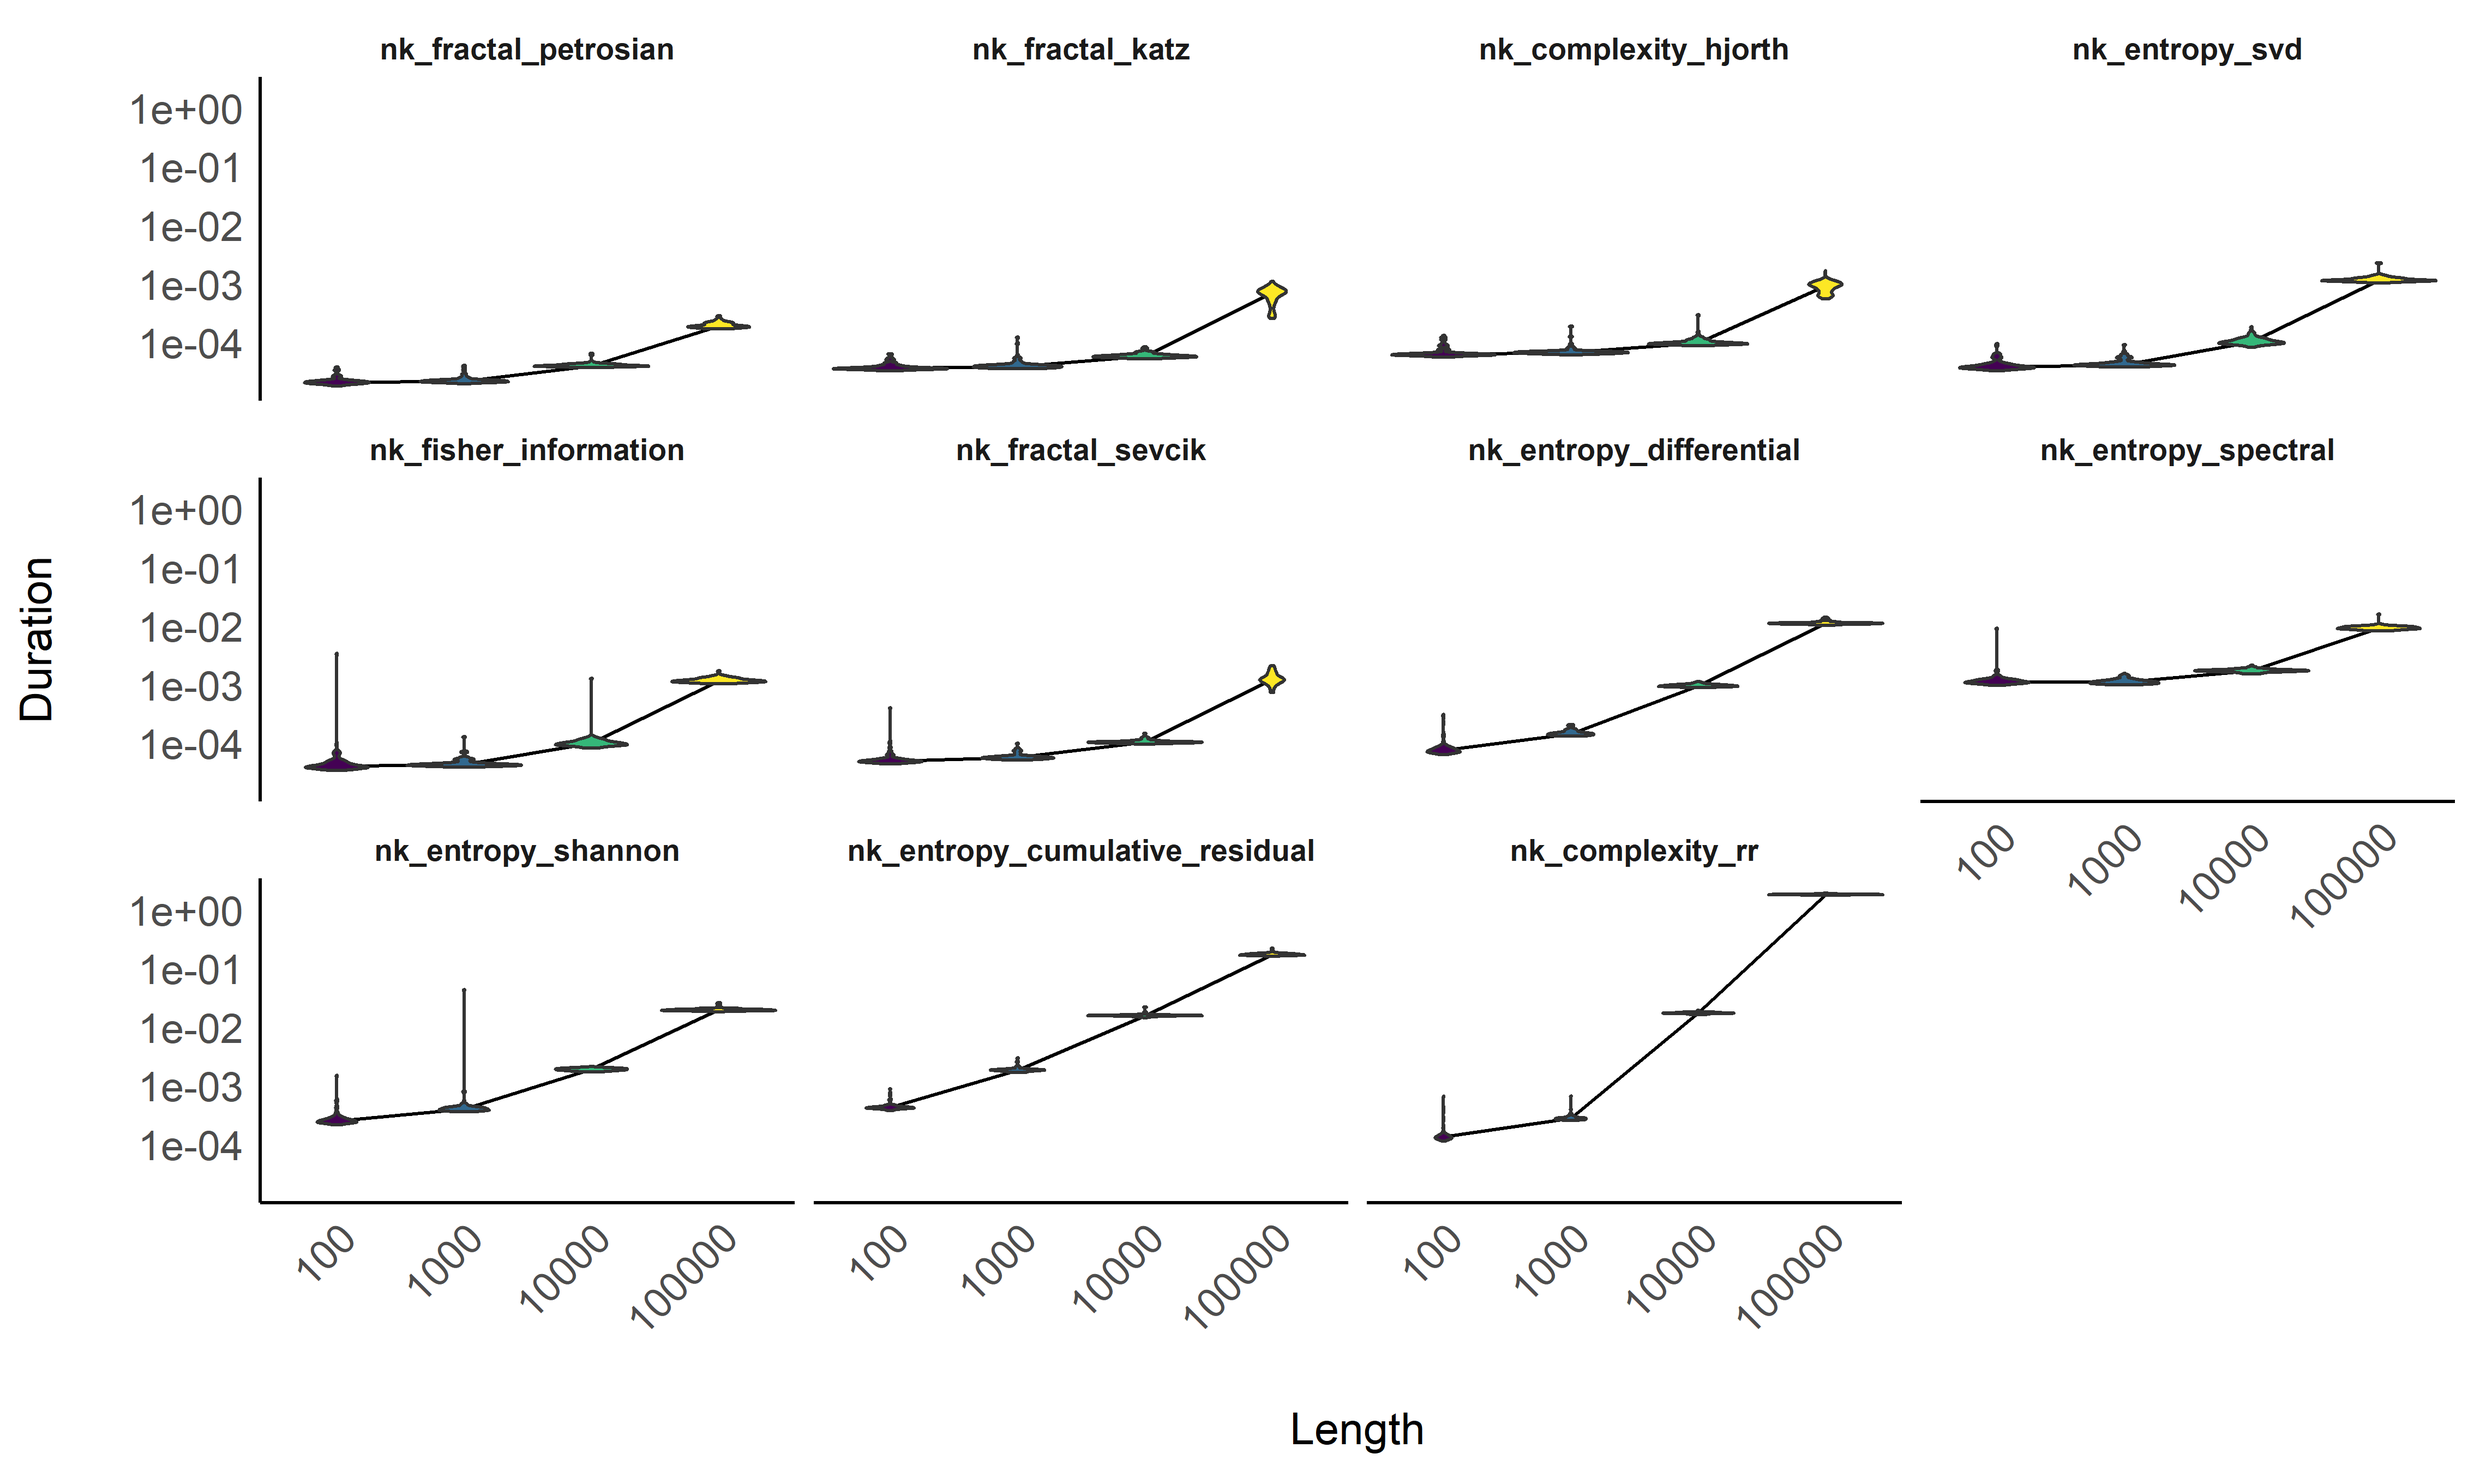
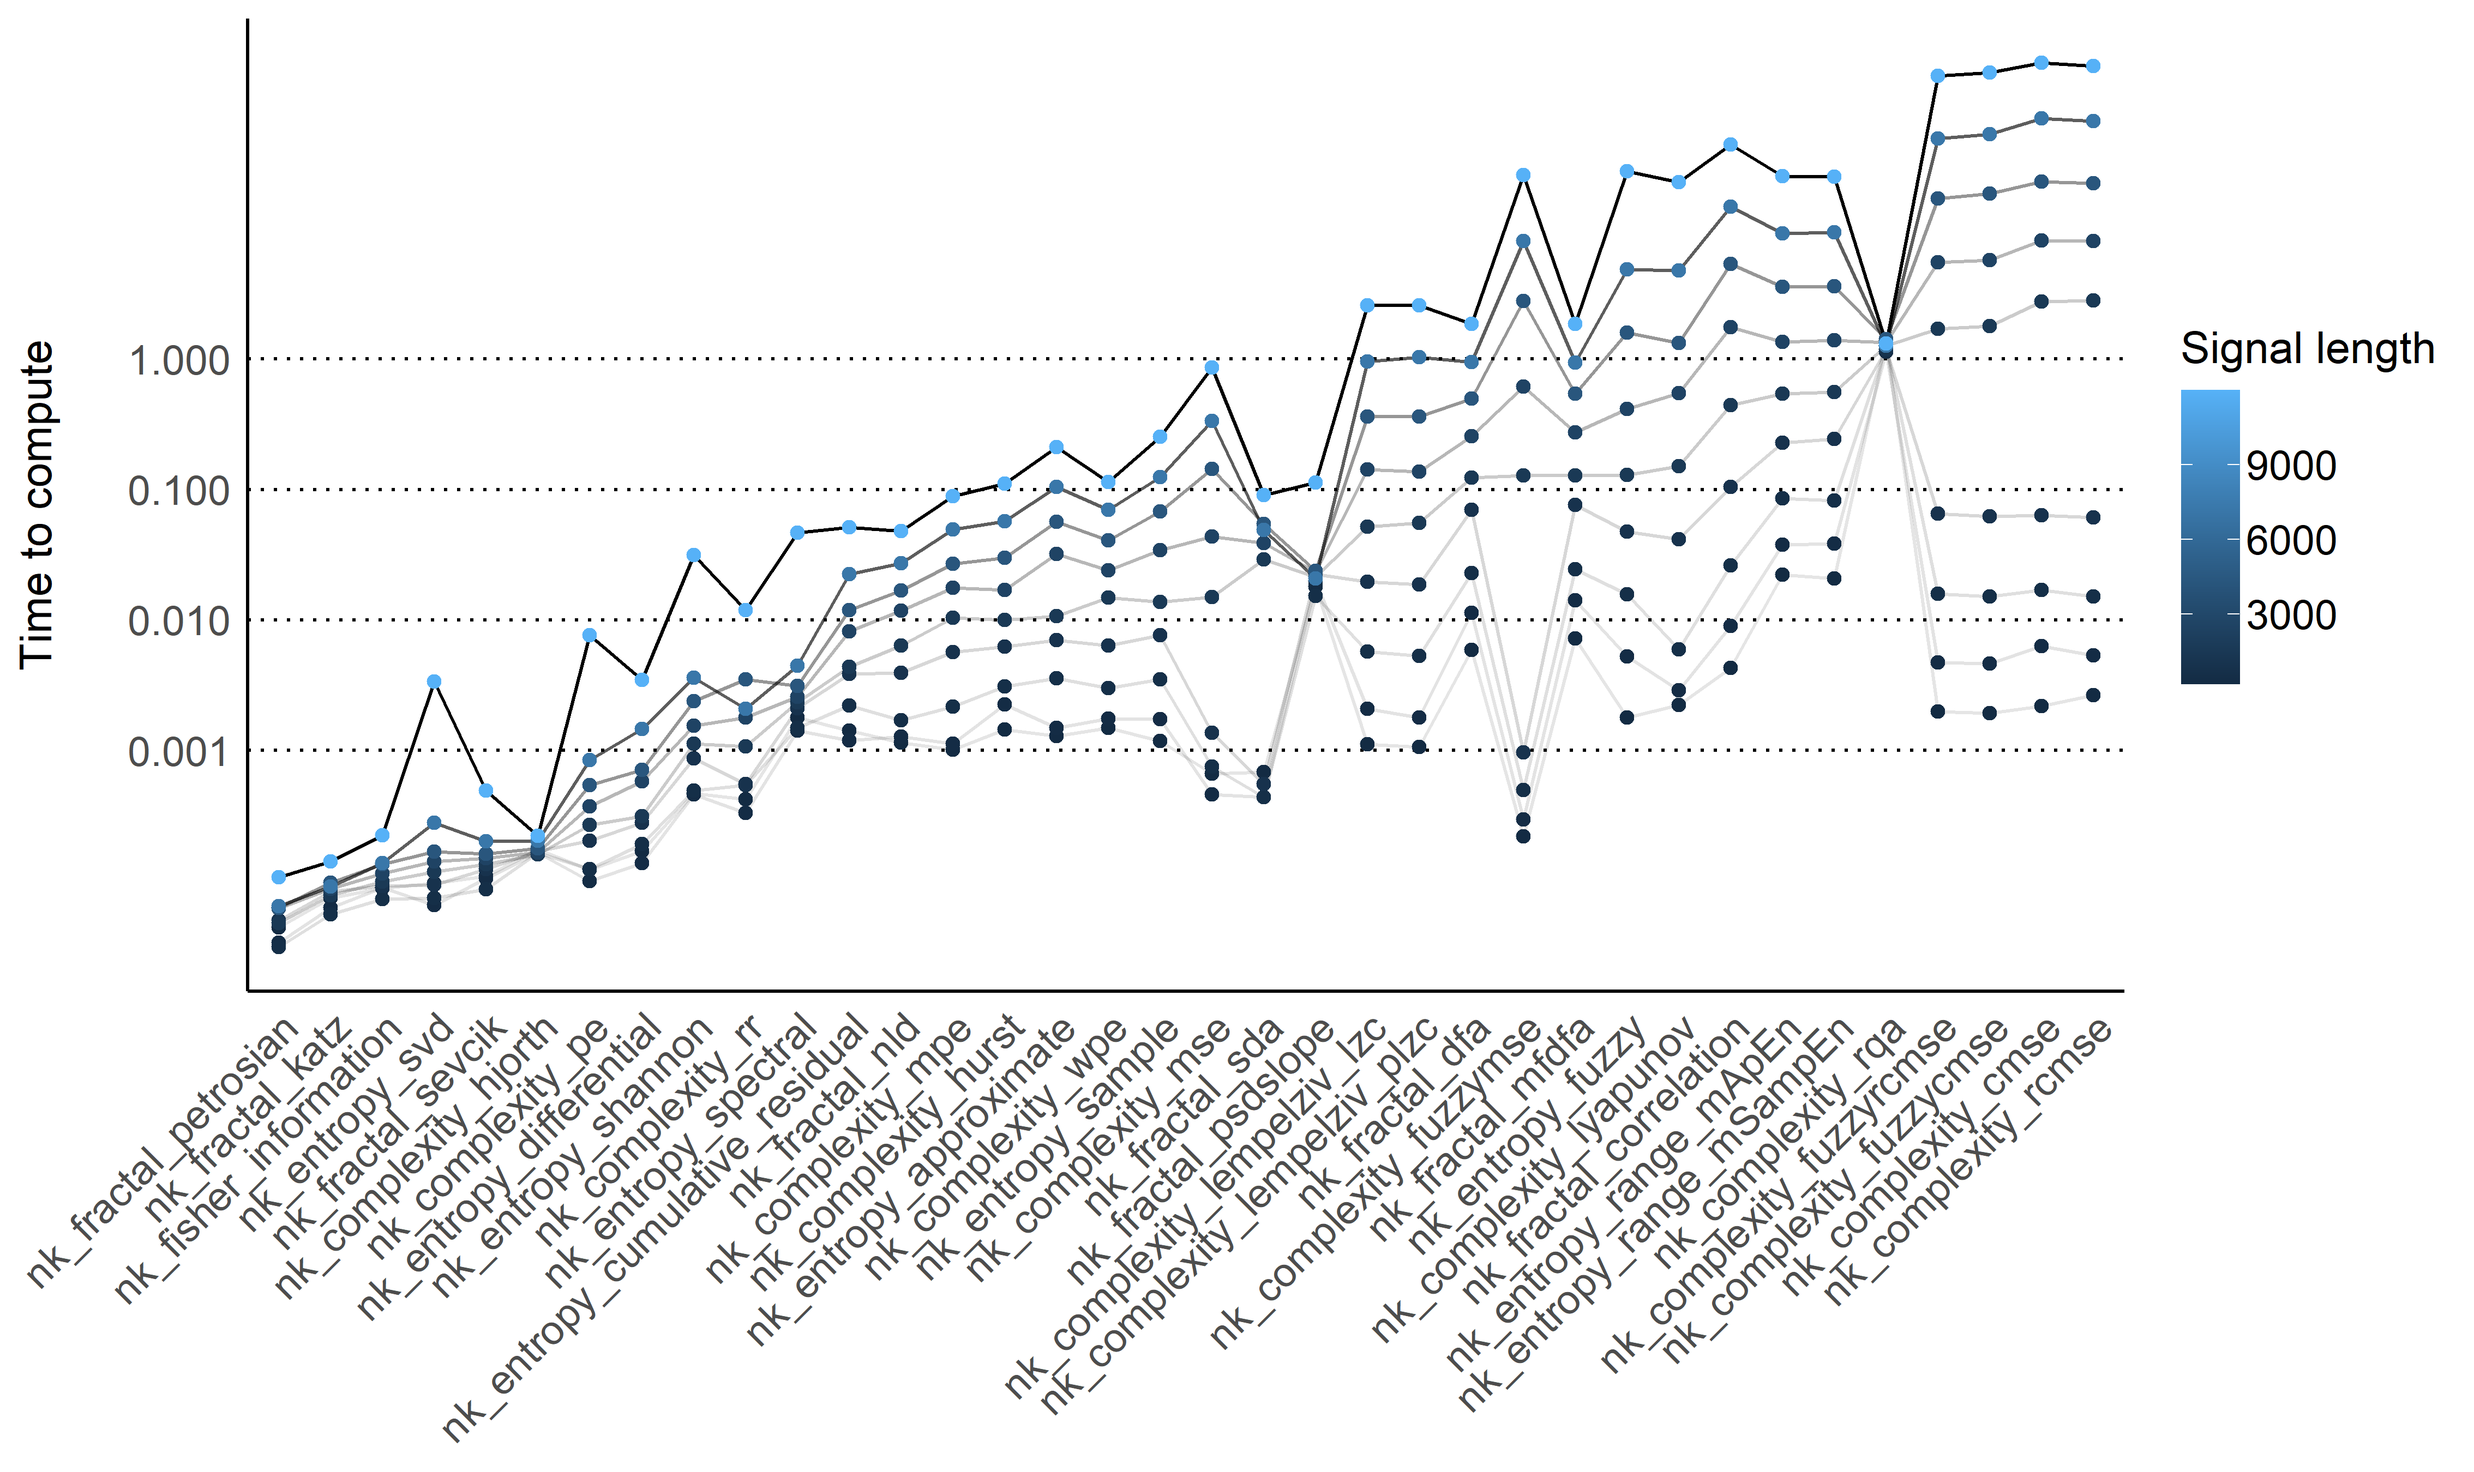
initialize complexity()

diff --git a/neurokit2/complexity/complexity.py b/neurokit2/complexity/complexity.py
@@ -1,0 +1,84 @@
+import numpy as np
+import pandas as pd
+
+from .complexity_hjorth import complexity_hjorth
+from .entropy_differential import entropy_differential
+from .entropy_permutation import entropy_permutation
+from .entropy_svd import entropy_svd
+from .fractal_katz import fractal_katz
+from .fractal_petrosian import fractal_petrosian
+from .fractal_sevcik import fractal_sevcik
+from .information_fisher import fisher_information
+
+
+def complexity(signal, which=["fast"], delay=1, dimension=2):
+    """Complexity Analysis
+
+    This convenience function can be used to run a large number of complexity metrics.
+
+    The categorization by "computation time" is based on our preliminary `benchmarking study <https://neurokit2.readthedocs.io/en/latest/studies/complexity_benchmark.html>`_.
+
+    Parameters
+    ----------
+    signal : Union[list, np.array, pd.Series]
+        The signal (i.e., a time series) in the form of a vector of values.
+    which : list
+        What metrics to compute, based on their computation time. Currently, only 'fast' is supported.
+    delay : int
+        See for example :func:`entropy_permutation`.
+    dimension : int
+        See for example :func:`entropy_permutation`.
+
+    Returns
+    --------
+    df : pd.DataFrame
+        A dataframe with one row containing the results for each metric as columns.
+    info : dict
+        A dictionary containing additional information.
+
+    See Also
+    --------
+    entropy_permutation, entropy_differential, entropy_svd, fractal_katz, fractal_petrosian, fractal_sevcik, fisher_information, complexity_hjorth
+
+    Examples
+    ----------
+    >>> import neurokit2 as nk
+    >>>
+    >>> signal = nk.signal_simulate(duration=2, frequency=5)
+    >>>
+    >>> df, info = nk.complexity(signal, which = "fast")
+    >>> df
+
+    """
+    # Sanity checks
+    if isinstance(signal, (np.ndarray, pd.DataFrame)) and signal.ndim > 1:
+        raise ValueError(
+            "Multidimensional inputs (e.g., matrices or multichannel data) are not supported yet."
+        )
+
+    # Sanitize which
+    if isinstance(which, str):
+        which = [which]
+
+    # Initialize
+    df = {}
+    info = {}
+
+    # Fast ======================================================================================
+    if "fast" in which:
+
+        # Fractal Dimension
+        df["PFD"], info["PFD"] = fractal_petrosian(signal)
+        df["KFD"], info["KFD"] = fractal_katz(signal)
+        df["SFD"], info["SFD"] = fractal_sevcik(signal)
+
+        # Entropy
+        df["SVDEn"], info["SVDEn"] = entropy_svd(signal, delay=delay, dimension=dimension)
+        df["PEn"], info["PEn"] = entropy_permutation(signal, dimension=dimension, delay=delay)
+        df["DiffEn"], info["DiffEn"] = entropy_differential(signal)
+
+        # Other
+        df["FI"], info["FI"] = fisher_information(signal, delay=delay, dimension=dimension)
+        df["Hjorth"], info["Hjorth"] = complexity_hjorth(signal)
+
+    return pd.DataFrame.from_dict(df, orient="index").T, info

diff --git a/neurokit2/complexity/entropy_svd.py b/neurokit2/complexity/entropy_svd.py
@@ -7,8 +7,8 @@ from .complexity_embedding import complexity_embedding
 def entropy_svd(signal, delay=1, dimension=2):
     """Singular Value Decomposition (SVD) Entropy
 
-    SVD entropy can be intuitively seen as an indicator of how many eigenvectors are needed for
-    an adequate explanation of the dataset. In other words, it measures feature-richness: the
+    SVD entropy (SVDEn) can be intuitively seen as an indicator of how many eigenvectors are needed
+    for an adequate explanation of the dataset. In other words, it measures feature-richness: the
     higher the SVD entropy, the more orthogonal vectors are required to adequately explain the
     dataset.
 

diff --git a/neurokit2/complexity/__init__.py b/neurokit2/complexity/__init__.py
@@ -1,6 +1,7 @@
 """Submodule for NeuroKit."""
 import functools
 
+from .complexity import complexity
 from .complexity_embedding import complexity_embedding
 from .complexity_hjorth import complexity_hjorth
 from .complexity_hurst import complexity_hurst
@@ -76,6 +77,7 @@ complexity_cd = fractal_correlation
 complexity_plot = functools.partial(complexity_optimize, show=True)
 
 __all__ = [
+    "complexity",
     "complexity_embedding",
     "complexity_delay",
     "complexity_dimension",

diff --git a/studies/complexity_benchmark/README.md b/studies/complexity_benchmark/README.md
@@ -18,94 +18,61 @@ dimension, entropy, etc.).
 ## Make data
 
 ``` python
-import neurokit2 as nk
-import pandas as pd
-import numpy as np
-from timeit import default_timer as timer
-
-
-# Utility function
-def time_function(i, x, fun=nk.fractal_petrosian, index="FD_Petrosian", method="nk_fractal_petrosian"):
-  t0 = timer()
-  rez, _ = fun(x)
-  t1 = timer() - t0
-  dat = {
-    "Duration" : [t1],
-    "Result" : [rez],
-    "Length" : [len(x)],
-    "Index" : [index],
-    "Method" : [method],
-    "Iteration" : [i],
-  }
-  return pd.DataFrame.from_dict(dat)
-
-# Iterations
-data = []
-for n in np.power(10, range(2, 6)):
-  print(n)
-  x = nk.signal_simulate(duration=1, sampling_rate=n, frequency=[5, 10], noise=0.5)
-  for i in range(100):
-    data.append(time_function(i, x, nk.complexity_rr, index="RR", method="nk_complexity_rr"))
-    data.append(time_function(i, x, nk.complexity_hjorth, index="Hjorth", method="nk_complexity_hjorth"))
-    data.append(time_function(i, x, nk.fisher_information, index="Fisher", method="nk_fisher_information"))
-    data.append(time_function(i, x, nk.entropy_shannon, index="ShanEn", method="nk_entropy_shannon"))
-    data.append(time_function(i, x, nk.entropy_cumulative_residual, index="CREn", method="nk_entropy_cumulative_residual"))
-    data.append(time_function(i, x, nk.entropy_differential, index="DiffEn", method="nk_entropy_differential"))
-    data.append(time_function(i, x, nk.entropy_svd, index="SVDen", method="nk_entropy_svd"))
-    data.append(time_function(i, x, nk.entropy_spectral, index="SpEn", method="nk_entropy_spectral"))
-    data.append(time_function(i, x, nk.fractal_katz, index="Katz", method="nk_fractal_katz"))
-    data.append(time_function(i, x, nk.fractal_sevcik, index="Sevcik", method="nk_fractal_sevcik"))
-    data.append(time_function(i, x, nk.fractal_petrosian, index="FD_Petrosian", method="nk_fractal_petrosian"))
-
-pd.concat(data).to_csv("data.csv", index=False)
+# See make_data.py
 ```
 
 ## Benchmark
+
+### Average Duration
 
 ``` r
 library(tidyverse)
 library(easystats)
 
-df <- read.csv("data.csv") |>
-  mutate(Length = as.factor(Length))
+df <- read.csv("data.csv") 
 
-order <- arrange(summarize(group_by(df, Method), Duration = mean(Duration)), Duration)
-order 
-## # A tibble: 11 x 2
-##    Method                          Duration
-##    <chr>                              <dbl>
-##  1 nk_fractal_petrosian           0.0000722
-##  2 nk_fractal_katz                0.000201 
-##  3 nk_complexity_hjorth           0.000288 
-##  4 nk_entropy_svd                 0.000352 
-##  5 nk_fisher_information          0.000363 
-##  6 nk_fractal_sevcik              0.000384 
-##  7 nk_entropy_differential        0.00314  
-##  8 nk_entropy_spectral            0.00342  
-##  9 nk_entropy_shannon             0.00575  
-## 10 nk_entropy_cumulative_residual 0.0484   
-## 11 nk_complexity_rr               0.466
+order <- df |> 
+  group_by(Method) |> 
+  summarize(Duration = median(Duration)) |> 
+  arrange(Duration) |> 
+  mutate(Method = factor(Method, levels = Method))
 
-df <- mutate(df, Method = fct_relevel(Method, order$Method))
+df <- mutate(df, Method = fct_relevel(Method, as.character(order$Method)))
 
 dfsummary <- df |>
   group_by(Method, Length) |>
   summarize(Duration = median(Duration))
 
-n <- length(unique(df$Method))
 
+ggplot(dfsummary, aes(x = Method, y = Duration)) + 
+  geom_hline(yintercept = c(0.001, 0.01, 0.1, 1), linetype = "dotted") +
+  geom_line(aes(alpha = Length, group = Length)) +
+  geom_point(aes(color = Length)) + 
+  theme_modern() +
+  scale_y_log10(breaks = c(0.001, 0.01, 0.1, 1)) +
+  theme(axis.text.x = element_text(angle = 45, vjust = 1, hjust=1)) +
+  guides(alpha = "none") +
+  labs(y = "Time to compute", x = NULL, color = "Signal length")
+```
+
+![](../../studies/complexity_benchmark/figures/unnamed-chunk-3-1.png)<!-- -->
+
+### Sensitivity to signal length
+
+``` r
 df |> 
-  ggplot(aes(x = Length, y = Duration)) +
+  ggplot(aes(x = as.factor(Length), y = Duration)) +
+  geom_hline(yintercept = c(0.01), linetype = "dotted") +
   geom_line(data=dfsummary, aes(group = 1)) +
   geom_violin(aes(fill = Length)) +
   facet_wrap(~Method) +
   scale_y_log10() +
-  scale_fill_viridis_d(guide = "none") +
+  scale_fill_viridis_c(guide = "none") +
   theme_modern() +
   theme(axis.text.x = element_text(angle = 45, vjust = 1, hjust=1))
 ```
 
-![](../../studies/complexity_benchmark/figures/unnamed-chunk-3-1.png)<!-- -->
+![](../../studies/complexity_benchmark/figures/unnamed-chunk-4-1.png)<!-- -->
 
 ## References
 
